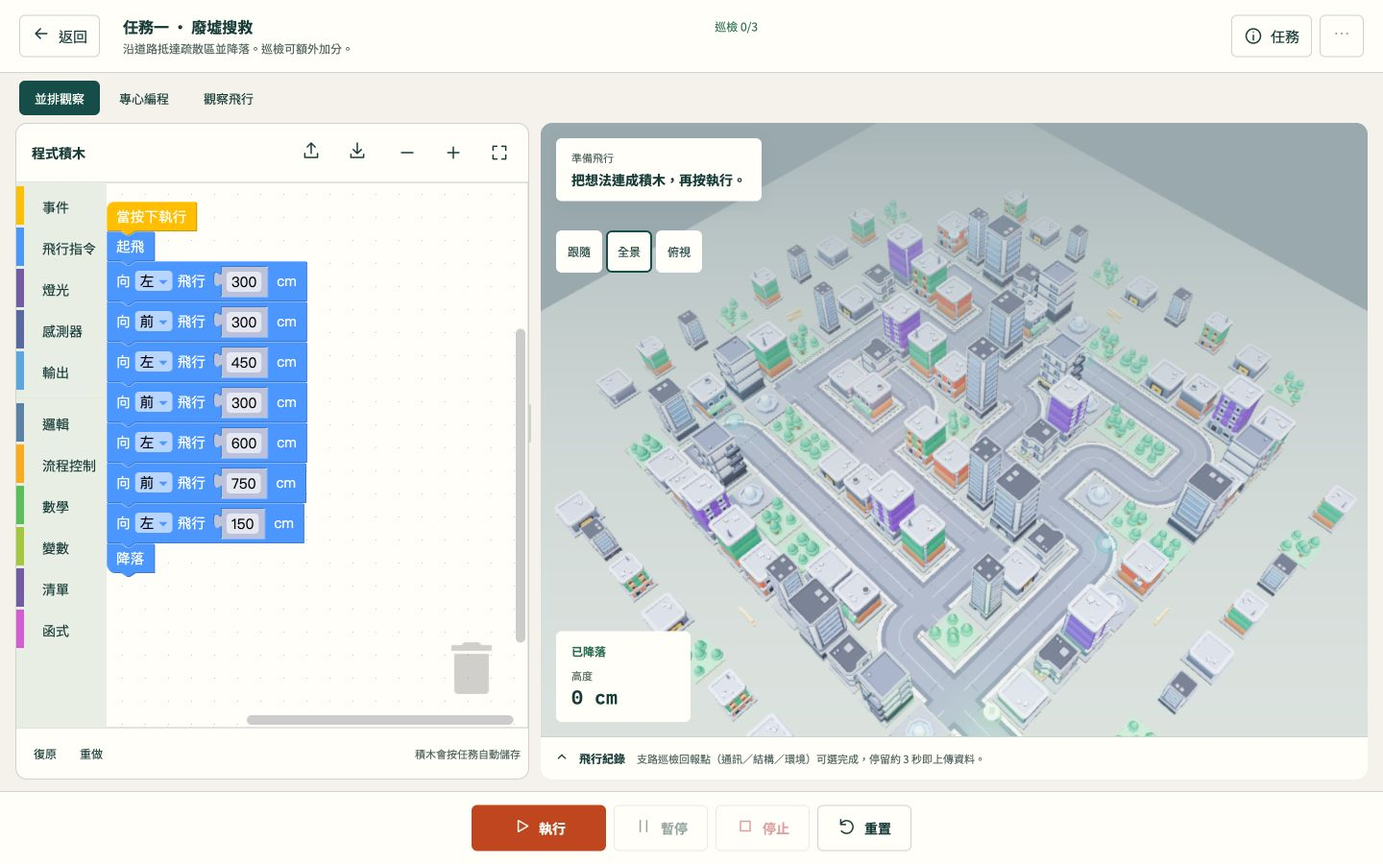
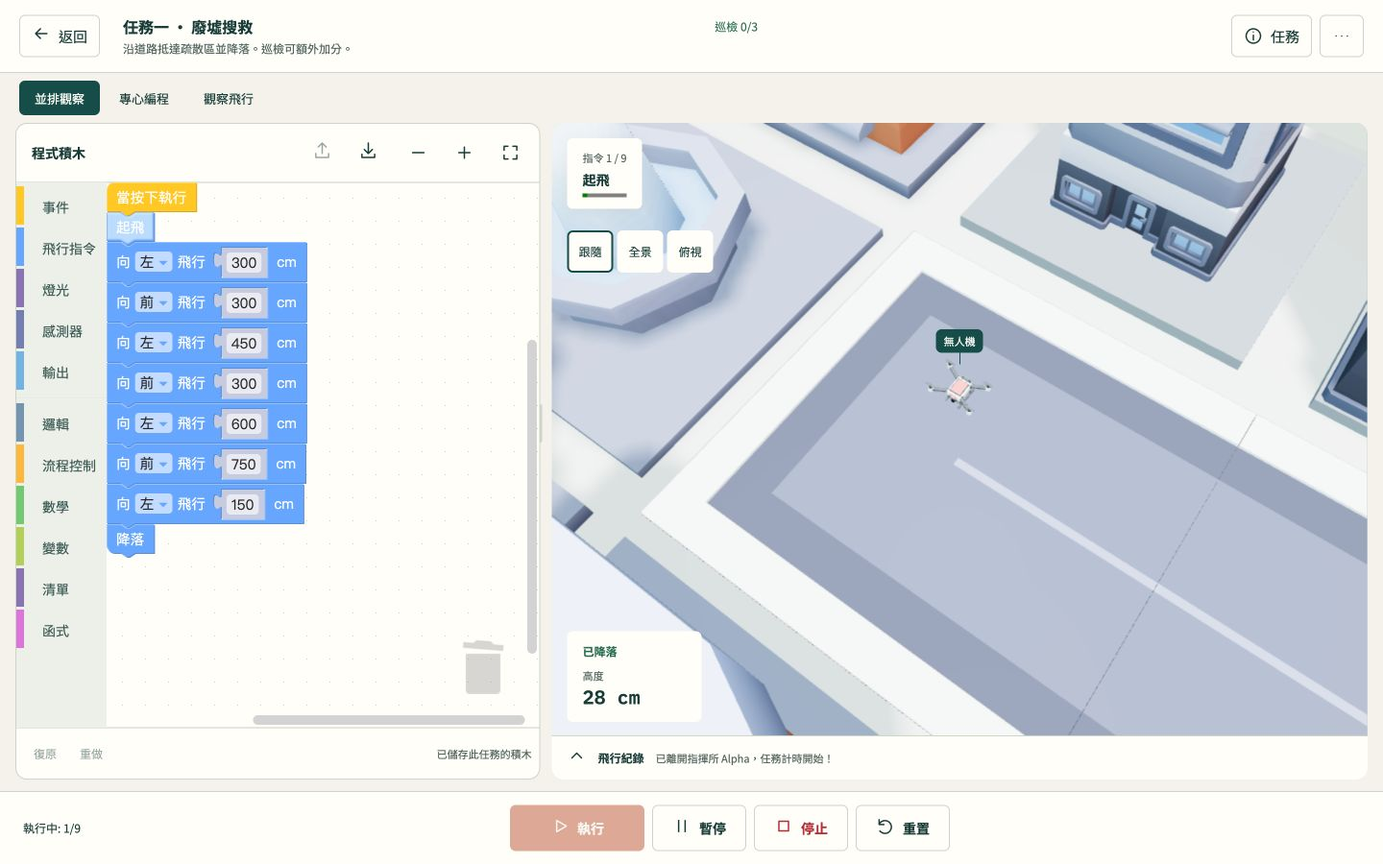
docs: record v2 design system and verified QA evidence

diff --git a/docs/design/v2-qa.md b/docs/design/v2-qa.md
@@ -1,28 +1,54 @@
-# v2 QA evidence — in progress
+# v2 QA evidence
 
-Date: 2026-09-23. Local preview: localhost:8081. Local changes only; no remote or deployment.
+2026-09-24 · Local build only. No remote, push, PR or deployment. Tests use the in-app Chromium browser and emulated viewport sizes, not physical iPad/Safari hardware.
 
-## Verified so far
+## Functional evidence
 
-- Original production main journey completed: Tunnel direct road route → land → 20 s / 700 points / 0 optional checkpoints.
-- New local route through UI XML import and confirmation → nine commands with highlighting → same 20 s / 700 points / 0 checkpoints.
-- Retry returns to start and retains the imported XML workspace.
-- Free-practice starter executes takeoff → forward 50 cm → land.
-- Empty workspace starter, Chinese block labels, code/flight/split navigation, home/mission/briefing/result screens exercised.
-- Initial node tests: 10/10 pass after main shell and translation changes.
-- 1440×900 home, mission selector, briefing, simulator and result inspected. Screenshots in `screenshots/after`.
-- Original production 1024×768 clipping and tutorial overlap recorded; new tablet QA pending.
+| Check | Observed result |
+|---|---|
+| Production baseline, tunnel | Actual UI import/run/landing: 9 commands, 20 s, 0/3 optional checkpoints, 700 points, third class |
+| v2 tunnel | Same route, command highlighting, destination landing and result: 20 s / 700 / 0 checkpoints; repeated after layout fixes |
+| v2 city | Existing 68-command reference completes and lands: 3/4 fires, 475 objective + 450 time = 925 points, second class; three recharge and successful water cycles visible in log |
+| City reference limitation | Fourth water collection fails on the supplied route; subsequent spray has an empty tank. `city-reference.xml` is a regression fixture, not a perfect-score answer |
+| Free practice/tutorial | 50 cm and edited 100 cm flights take off, move and land at 0 cm; tutorial completes after the final landing, not on Run |
+| Error/retry | Removing takeoff produces actionable grounded-flight error; undo restores the block, retry completes |
+| Editing | Drag from toolbox, edit number, undo/redo, zoom, starter replacement confirmation and actual valid XML import exercised |
+| Debug/teacher | Pause, next-command step, continue, stop and reset exercised; reset keeps blocks |
+| Persistence | Reload retains saved programs; returning to missions restores their own XML; an unsaved context starts empty |
+| Import resilience | Actual Blockly engine tests malformed XML and unknown blocks; existing program survives rejection |
+| Export | UI invokes export and reports filename without exception; in-app browser did not deliver a download event, so final filesystem download is not proven. Blob link lifetime was made safer |
+| Camera | Follow, map, top, keyboard orbit and panel resize exercised; canvas no longer steals HUD gestures |
+| Completion | Result retry and next mission exercised; result focus wraps, Escape closes; optional objectives explained as improvement goals |
 
-## Defects addressed
+## Automated and packaging checks
 
-Missing-save contexts previously retained another mission's blocks. Restore now clears on a genuinely absent save, retaining the original keys/XML format. Tutorial formerly marked success on Run; it now checks a complete takeoff/movement/landing run and asks before replacing existing blocks. Optional objectives no longer appear as mandatory failure conditions. Runtime rejection is caught and offers reset/retry. Delayed result display checks that the same completed run still exists.
+- `npm test`: **17/17 pass** (10 existing tests plus real Blockly fixture/import tests and service-worker behavior tests).
+- Syntax checks pass for `js/main.js`, `js/v2_ui.js`, `js/simulator.js`.
+- `node scripts/verify-static-site.cjs`: **161 offline entries** present in the real Pages preparation recipe, including RoundedBoxGeometry, Chinese Blockly messages and local media; no deployment.
+- Service-worker tests cover Pages subpaths, query versions, navigation fallback, fresh online code and missing assets never receiving HTML.
+- Actual offline check: opened `offline.localhost:8081`, allowed precache installation, stopped the local server, reloaded home, entered practice, created and executed takeoff → forward 50 cm → land. Scene and blocks rendered, flight ended at 0 cm. Screenshot: `screenshots/after/offline-flight.png`. Server restored afterward. This proves app-server-unavailable operation; it is not a hardware airplane-mode test of external fonts.
+- `git diff --check` passes. The dormant baseline `verify-mission1-answer.cjs` still fails two optional checkpoints in its stale hardcoded reference; not silently marked passed or changed to weaken the mission.
 
-Main shell now opens Blockly, has code/world modes and clear command feedback. Repeated camera tools/novice debug controls are collapsed. Free practice uses a lighter ground. Discarded per-frame HUD strings and invisible renderer draws are removed. Scene preparation has a loading state.
+## Viewports, accessibility and performance
 
-Offline manifest now includes actual app scripts/styles/models and Traditional Chinese Blockly messages. Script/style/document requests use network-first with cached fallback; failed asset requests no longer return HTML. Pages package now includes RoundedBoxGeometry. These changes still require final static-package/offline verification.
+Desktop 1440×900, laptop 1280×800, tablet 1024×768 and 1180×820, portrait 390×844 inspected. Tablet uses explicit code/world/split modes and bottom controls; phone simulation asks for landscape and allows continuation. Home footer overlap was fixed.
 
-## Known limits / remaining work
+Keyboard focus containment checked in briefing/result; background screens use inert while dialogs/loading are active. Labels, visible focus, reduced-motion CSS, keyboard camera and keyboard resize are implemented. Measured main foreground/background contrast is 4.94–9.50:1; darkened custom Blockly blocks are 4.96–5.67:1 with white labels. This is a targeted accessibility pass, not a full WCAG or screen-reader certification. Blockly 9's complete keyboard-only construction remains limited.
 
-This document is not final acceptance. Still required: city mission end-to-end, physical-touch caveat and emulated tablet sizes, error/retry, undo/redo, keyboard/focus, persistence reload, asset/cache packaging checks, performance review and final screenshots. No physical iPad is connected. Browser emulation does not prove Safari or touch hardware support. Existing GLTFLoader emits KHR_texture_transform UV warnings; no browser errors observed during the completed tunnel run.
+Performance review removed discarded per-frame HUD markup and repeated unchanged DOM text writes. Renderer skips menu/code-only views; model loading and core simulation stay intact. Active v2 CSS is about 27 KB versus the retained 83 KB baseline stylesheet. Offline payload is approximately 16.34 MB/161 entries; old hero videos are not precached. No measured FPS, battery or physical Chromebook/iPad benchmark is claimed. Existing GLTFLoader texture-transform UV warnings remain; a stale mixed-version loader failure encountered during development was resolved by consistent asset revisions.
 
-Baseline reference-answer verifier fails because its old hardcoded route misses two optional checkpoints; do not treat it as a current mission failure or silently claim it passed.
+## Defects repaired and retained boundaries
+
+Repaired cross-mission workspace leakage, premature tutorial success, destructive invalid imports, unreadable-save overwrite risk, misleading optional-goal text, unhandled run errors, delayed result after leaving/reset, canvas height after layout changes, missing offline dependencies and asset-to-HTML fallback. Physics, collision boundaries, mission score formulas, movement units and existing XML/localStorage formats were retained.
+
+## Acceptance limits
+
+The implemented v2 and desktop/emulated-device checks are complete. Physical iPad Safari touch/drag, real Chromebook performance, assistive-technology testing and confirmed downloaded-file delivery remain unverified. The original Production city route was inspected but not run end-to-end; the city completion evidence above is v2 only. These limits must not be presented as passed hardware tests.
+
+## Independent finish verdict
+
+First capture check requested recapture of an incorrectly sized home image; full 1440×900 evidence replaced it. Full review matched home topology, typography, material, ground and icon treatment, then requested two checks. A fresh verdict pass confirmed tablet controls were already visible (prior finding was a false positive) and accepted the stronger practice grid, live drone/action label and takeoff status. Final scoped disposition: **ship**. No other regressions observed in those two captures; not a claim of independent full functional QA. Main agent retained final acceptance.
+
+## Local checkpoints
+
+`b810c85` original snapshot → `1863bf6` audit/architecture → `0874f57` redesigned shell/learning workflow → `2d32818` persistence, responsive feedback and offline hardening. Final documentation/screenshots are committed separately. No remote is configured.

diff --git a/DESIGN.md b/DESIGN.md
@@ -1,0 +1,81 @@
+---
+name: Drone Simulator v2
+description: Rescue field school — code, observe, improve.
+colors:
+  paper: "#f4f2eb"
+  surface: "#fffef9"
+  primary: "#bf461e"
+  secondary: "#164d48"
+  text: "#173b37"
+  muted: "#64736b"
+  border: "#cdd4c8"
+  focus: "#146b88"
+typography:
+  body:
+    fontFamily: "Noto Sans TC, PingFang TC, Microsoft JhengHei, sans-serif"
+    fontSize: "15px"
+    lineHeight: 1.5
+rounded:
+  control: "6px"
+  panel: "12px"
+spacing:
+  small: "8px"
+  medium: "16px"
+  large: "24px"
+components:
+  button-primary:
+    backgroundColor: "{colors.primary}"
+    textColor: "{colors.surface}"
+    rounded: "{rounded.control}"
+    padding: "10px 20px"
+    height: "48px"
+---
+
+# Design System: Drone Simulator v2
+
+## Overview
+
+Rescue field school: daylight-readable surfaces, real mission-world imagery and a small set of clear controls. The home invites a student to begin a rescue; the flight deck helps them connect a highlighted block with visible drone movement and a mission result. Operate is the deck's mode, with the 3D world carrying the experience.
+
+This replaces the previous dark marketing/console visual world. It preserves the simulator, mission data, scores, models and program formats. Product truth is in PRODUCT.md; implementation tokens in assets/styles/tokens.css are authoritative.
+
+## Colors
+
+Warm paper `#f4f2eb` is the page field; `#fffef9` is the working surface. Deep teal `#164d48` marks selected views and the drone label; rescue orange `#bf461e` identifies the primary next action. Text is `#173b37`; muted text `#64736b`. Success, warning and failure always include words.
+
+## Typography
+
+Traditional Chinese body text uses Noto Sans TC with local CJK fallbacks. Display uses IBM Plex Sans/Noto Sans TC; measurements use IBM Plex Mono. Existing Google Fonts delivery is retained, with offline fallbacks. No self-hosted font is claimed. Headers, plain-language instructions and numeric telemetry have distinct scale and weight; monospace is for measurements and logs.
+
+## Layout
+
+Home pairs a large existing mission image with a concise invitation, main mission action, practice and first-flight route. Mission cards are the two actual scenarios. Briefing places optional full rules behind disclosure.
+
+Desktop deck starts at 38% code, remaining world; the separator resizes. Code/world/split views share the same program. Below 1100 px start with full-width code and switch to world on execution. Bottom execution controls remain visible. Below 700 px home stacks; portrait simulation offers a rotate prompt. Spacing scale: 4/8/12/16/24/32/48/64 px.
+
+## Elevation & Depth
+
+Permanent regions use thin borders. Floating dialogs/hints use `0 12px 36px #183e3826`; the current-command panel has a smaller diffuse shadow. World labels and HUD sit above canvas; menus and protected-focus dialogs sit above the deck. Do not add decorative glass or glow.
+
+## Shapes
+
+6 px control corners, 12 px panel corners. Authored 24×24 SVG stroke icons render at 20 px. Tool targets are 44 px; desktop view tabs are 36 px, becoming 44 px on tablet. Avoid emoji as formal controls.
+
+## Components
+
+Run is orange; reset/retry are quiet bordered controls. Pause/stop become enabled with execution state. Beginner telemetry shows flight state and height; the fire mission adds water and battery. Detailed data, debugging and road editing stay in secondary tools; logs begin collapsed.
+
+The current-command panel, Blockly highlight and projected drone/action label form one feedback system. Practice uses a visible 25 cm ground grid. Loading, empty, invalid-program, collision and water errors explain the next useful action. Result keeps score breakdown and offers retry/next mission. XML replacement is validated transactionally; old save keys remain unchanged.
+
+## Do's and Don'ts
+
+- Keep the world and the student's next action dominant.
+- Keep explicit code/flight/result causality and Chinese action labels.
+- Keep physics and score calculations behind their existing boundaries.
+- Do not invent best-score history, achievements, cloud accounts or mission facts.
+- Do not return logs and advanced telemetry to the beginner's main view.
+- Do not mistake emulator screenshots for physical iPad or Safari testing.
+
+Review evidence and limitations: docs/design/v2-qa.md. Independent finish review ended **ship** for the two scored findings: tablet controls were a confirmed false positive; practice feedback was strengthened and visually verified. This is a scoped visual verdict, not hardware certification.
+
+Provenance: images/GLBs are pre-existing local assets, original notices retained; interface SVG paths are authored code. No new external image/model package. The first concept script call emitted nothing because of a symlink entry-point issue; key `9c3e13b0` was corroborated late on 2026-09-24. No approved raster comp or quality-bar board existed, and no retroactive pre-build design approval is claimed.

diff --git a/README.md b/README.md
@@ -1,25 +1,63 @@
-# Drone Rescue Simulator
+# Drone Simulator v2 — 救災無人機訓練
 
-Canonical name: drone-rescue-simulator
+以 Blockly 積木操控 3D 無人機，練習路線規劃、觀察飛行結果與修正程式。包含震後街區搜救、山火應對及自由練習。
 
-Current path: /Users/alanchan/projects/drone-simulator
+## 本機啟動
 
-Status: HOLD
+需要 Node.js、npm 與 Python 3。
 
-## Purpose
+```sh
+npm ci
+npm start
+```
 
-This is a browser-based drone rescue training simulator. The current source is a small static web application with an index.html entry point, JavaScript under js/, and supporting assets under assets/.
+在瀏覽器開啟 http://localhost:8080。不能直接雙擊 index.html；瀏覽器會阻止載入 3D 模型。初次啟動需要安裝依 lockfile 固定的程式庫。
 
-## Source of truth
+## 操作
 
-- index.html is the application entry point.
-- js/ contains the simulator behavior.
-- assets/ contains supporting visual and media assets.
-- CONTEXT.md records project terminology and domain context.
-- package.json records the local start/test commands.
+1. 選擇任務，閱讀簡短目標；詳細圖例和計分規則可展開查看。
+2. 從工具箱拖入積木，或在自由練習加入第一次飛行示範。
+3. 按「執行」，觀察高亮積木、指令提示及無人機。
+4. 按「重置」回到起點；積木會保留，可修正後再試。
 
-There is no separate generated build directory identified as canonical in this audit.
+「並排觀察／專心編程／觀察飛行」切換同一份程式及場景。較窄的橫向平板預設完整編程空間，執行時切換到飛行畫面。暫停在積木邊界生效；逐步執行、斷點、詳細數據及飛行紀錄在「更多工具」。
 
-## Next review
+鏡頭可跟隨、全景或俯視。滑鼠拖曳旋轉、滾輪縮放；原有單指旋轉／雙指縮放手勢保留。鍵盤聚焦 3D 畫布後，用方向鍵旋轉、加減鍵縮放。積木面板分隔線亦支援左右方向鍵。
 
-When work resumes, confirm the intended audience, test flow, and deployment method. The proposed canonical name does not authorize a directory rename.
+## 儲存與相容性
+
+積木按任務保存在同一瀏覽器的 localStorage，亦可匯出／匯入 XML。原有 `drone-simulator:v1:blockly-workspace:` 儲存鍵與 XML 格式保留；路面設定仍使用 `drone-simulator-road-overrides-v2`。飛行紀錄是當次工作階段紀錄，沒有新增雲端帳號或成績資料庫。清除瀏覽器資料前請先匯出。
+
+任務一以沿道路抵達疏散區並降落完成，巡檢為加分項。任務二保留原有滅火、充電、降落和時間計分規則；未全滅仍可降落結算。新版沒有改動飛行物理或計分公式。
+
+## 檢查
+
+```sh
+npm test
+node scripts/verify-static-site.cjs
+```
+
+第二個指令在暫存目錄執行既有 GitHub Pages 打包步驟，核對離線清單，然後清理暫存輸出；不會部署。
+
+## 架構
+
+- `index.html`：畫面、工具箱與對話框。
+- `assets/styles/`：v2 tokens、基本元素、入口、工作區和浮層；舊 style.css 不再載入。
+- `js/v2_ui.js`：視圖切換、指令提示、鏡頭預設、世界標示和焦點隔離。
+- `js/main.js`：工作區、執行流程、教學、儲存及任務畫面整合。
+- `js/blockly_workspace_io.js`：先驗證再取代工作區，保護匯入失敗前的積木。
+- `js/simulator.js`：既有場景、移動、碰撞、感測及任務計算。
+- `js/flight_command_execution.js`、`mission_rules.js`、`scene_lifecycle.js`、`flight_deck_view.js`：既有介面邊界。
+- `sw.js`：正式網站離線快取；本機開發不自動安裝，避免重製時混入舊版資源。
+
+GitHub Pages 沿用靜態部署方式。完成一次線上載入並安裝快取後，正式網站可使用已快取資源離線運作；Google Fonts 離線時使用系統字體。新版本程式採網絡優先、離線回退。這次工作僅作本機 Git 提交，沒有推送或部署。
+
+## 設計與驗證紀錄
+
+- [產品審視](docs/design/v2-audit.md)
+- [設計系統](docs/design/v2-design-system.md) · [元件與視覺規範](DESIGN.md)
+- [操作架構](docs/design/v2-ux-architecture.md)
+- [前後比較](docs/design/v2-before-after.md)
+- [測試與限制](docs/design/v2-qa.md)
+
+既有模型與媒體授權文件保留於 assets。沒有加入新的第三方模型、圖片或圖示套件。

diff --git a/docs/design/v2-audit.md b/docs/design/v2-audit.md
@@ -1,6 +1,6 @@
-# v2 audit — working evidence
+# v2 audit — evidence register
 
-Status: Phase 0 in progress. This is an evidence register, not a completed QA claim.
+Status: source/behavior/asset audit and browser evidence recorded. Final verification and explicit limits are in v2-qa.md.
 
 ## Baseline
 
@@ -29,7 +29,7 @@ Test origin: https://alanchan246.github.io/drone-simulator/ via in-app browser. 
 - A: Home → competition → Tunnel Rescue → briefing → open Blockly → drag event and takeoff → Run. Drone reached 80 cm, block highlighting/progress appeared. Then imported `test/fixtures/tunnel-direct.xml` using the actual UI and ran the entire road route to Bravo. Result: 20 s, 0/3 optional checkpoints, 200 exit + 500 time = 700, third class. This proves checkpoints are optional for completion.
 - B: Returned home and entered free practice/tutorial. Existing workspace retained its takeoff block when new context had no saved XML; observed tutorial starting at step 3 after opening editor. Source restore returns before clearing on missing save, explaining the context leakage.
 - C: Empty Run shows an actionable missing-command message. A takeoff-only mission program ends with incorrect text requiring all three optional checkpoints. Reset preserves blocks. Full program import uses confirmation and reports success.
-- D: Selected mission, ran, reset, returned and selected again. Repeated briefing and hidden editor add friction. Additional pause/step/stop/repeat checks pending.
+- D: Selected mission, ran, reset, returned and selected again. Repeated briefing and hidden editor add friction. Pause/step/stop/repeat checks were subsequently exercised in browser QA.
 - E: At 1024×768, editor remains ~310 px wide, blocks clip horizontally, large tutorial overlaps flight controls, and mission name/progress disappears from the top bar. Full physical touch testing pending.
 - Tutorial helper inserted takeoff → move 50 cm → land. Executed to landed at Z=50. Tutorial announced completion immediately during command 1/3 rather than after successful landing.
 
@@ -76,6 +76,8 @@ Flight history is currently a session log, not a persistent history database. Be
 - REVIEW REQUIRED: old hero video variants, non-Kenney model/video provenance. Preserve files until usage/provenance decisions are grounded.
 - REMOVE: none authorised by this audit yet.
 
-## Remaining Phase 0 checks
+## Audit completion and sequencing limits
 
-Complete returning persistence/reload, error recovery edit/retry, teacher debug controls, mission 2, remaining viewport baselines, keyboard/modals, runtime/deployment asset errors and source-level event/state audit. Save evidence before replacing UI.
+Returning persistence/reload, error edit/retry, teacher debug controls, city completion, responsive layouts, keyboard/modals and offline/Pages packaging were subsequently exercised; see v2-qa.md. Source boundaries and asset inventory were inspected before implementation, but some browser/accessibility checks continued after the first UI checkpoint. This is a deviation from the requested strictly sequential full-audit-before-UI process, not a claim that every baseline journey preceded edits. Production city end-to-end and physical iPad touch were not completed; v2 city and emulated tablet evidence are separately identified.
+
+Retained debt: classic global scripts and inline handlers, a dormant duplicate execution function, old reference-route scripts and unused cinematic code/assets. No broad speculative cleanup was performed. Presentation now has separate CSS modules/V2UI, and XML replacement has a transaction boundary; this improves maintainability without pretending the entire simulator was modularised.

diff --git a/docs/design/v2-before-after.md b/docs/design/v2-before-after.md
@@ -1,0 +1,17 @@
+# v2 before / after
+
+Production baseline was inspected directly. Some production script versions predate the supplied local source; before images are labelled production, after images are the local v2, not a claim of deployment.
+
+| Surface | Original problem | New behavior and reason | Evidence |
+|---|---|---|---|
+| Home | Cinematic controls and several entry paths compete | Scene-led invitation with mission, practice and a short first-flight route | [Before](screenshots/before/production-home-1440.png) · [After](screenshots/after/home-1440.png) |
+| Mission select | Selection primarily looks like a menu | Two visual rescue scenarios explain objective and learning concepts | [Before](screenshots/before/production-missions-1440.png) · [After](screenshots/after/missions-1440.png) |
+| Briefing | Full bilingual manual before programming | Short goal/constraints with optional detailed rules | [Before](screenshots/before/production-briefing-1024.png) · [After](screenshots/after/briefing-1440.png) |
+| Simulator | World competes with controls, HUD and logs | Largest region is the world; three workspace modes; compact contextual HUD; logs collapsed | [Before](screenshots/before/production-simulator-1280.png) · [After](screenshots/after/simulator-1440.png) |
+| Blockly | Hidden on entry, blank workspace, English blocks | Immediately available, a starter action, Chinese labels, undo/redo, command feedback | [Before](screenshots/before/production-blockly-1440.png) · [After](screenshots/after/free-practice-1440.png) |
+| Results | Completion reports scores without a clear next task | Score breakdown retained; retry preserves program; next mission is primary; optional goals guide improvement | [Before](screenshots/before/production-result-1024.png) · [After](screenshots/after/result-1440.png) |
+| Tablet | ~310 px editor clips blocks; tutorial overlaps controls | Full-width code or flight, 44 px tools and stable bottom controls | [Before](screenshots/before/production-tablet-1024.png) · [Code](screenshots/after/tablet-code-1024.png) · [World](screenshots/after/tablet-world-1024.png) |
+| Error recovery | Low-level logs expand and optional goals look mandatory | Plain-language reason and next step; code retained; logs opt-in | [Before](screenshots/before/production-incomplete-program.png) · [After](screenshots/after/error-recovery-1024.png) |
+| Phone portrait | Crowded simulator | Explicit rotate prompt and optional continuation | [Before](screenshots/before/production-portrait-390.png) · [After](screenshots/after/portrait-390.png) |
+
+The redesign changes information architecture and mode behavior, not only styling. It keeps the existing simulation foundation, assets, score thresholds and XML format. Camera framing, lighter practice ground, clearer forest lighting/fog and projected drone/landing labels improve observation without changing physics.

diff --git a/docs/design/v2-design-system.md b/docs/design/v2-design-system.md
@@ -17,7 +17,7 @@ Spacing tokens: 4, 8, 12, 16, 24, 32, 48, 64 px. Radius: 6 px controls, 12 px su
 - Primary: rescue orange, one decision per screen (start, run, next mission).
 - Secondary: bordered neutral buttons (practice, reset, retry).
 - Tertiary: text link or quiet tool.
-- Icon: consistent authored 24×24 SVG strokes, 20 px rendered in ≥44 px target.
+- Icon: consistent authored 24×24 SVG strokes, 20 px rendered in 44 px tool targets (desktop view tabs use 36 px; tablet tabs use 44 px).
 - Destructive/stop: danger text with an explicit word.
 - Focus: 3 px blue outline with offset; reduced motion disables nonessential transitions.
 
@@ -36,3 +36,9 @@ Camera framing, free-practice ground/sky, world labels and rendering visibility 
 ## Assets and provenance
 
 Mission preview images and all GLBs are pre-existing local assets; their original notices remain in assets. UI SVG paths and free-practice ground are authored in code. No new third-party bitmap, model or icon package was added. Legacy media provenance remains a baseline limitation, not a claim of new licensing review.
+
+## Learning feedback and safe persistence
+
+Custom blocks use dark event ochre `#96630c`, flight blue `#2768ad`, water teal `#007c80`, and fire rust `#b64322`, with white text. Blockly's category identifiers and serialized field values remain unchanged. A current-command panel and a projected drone/action label connect the highlighted block to the world. Practice ground uses a 25 cm visual grid; it does not alter movement or collision rules.
+
+`js/blockly_workspace_io.js` stages XML in a temporary Blockly workspace before replacing the visible program, and restores the previous XML on render failure. Unreadable autosaves are protected from silent overwrite. This is a persistence boundary, separate from the presentation module.
